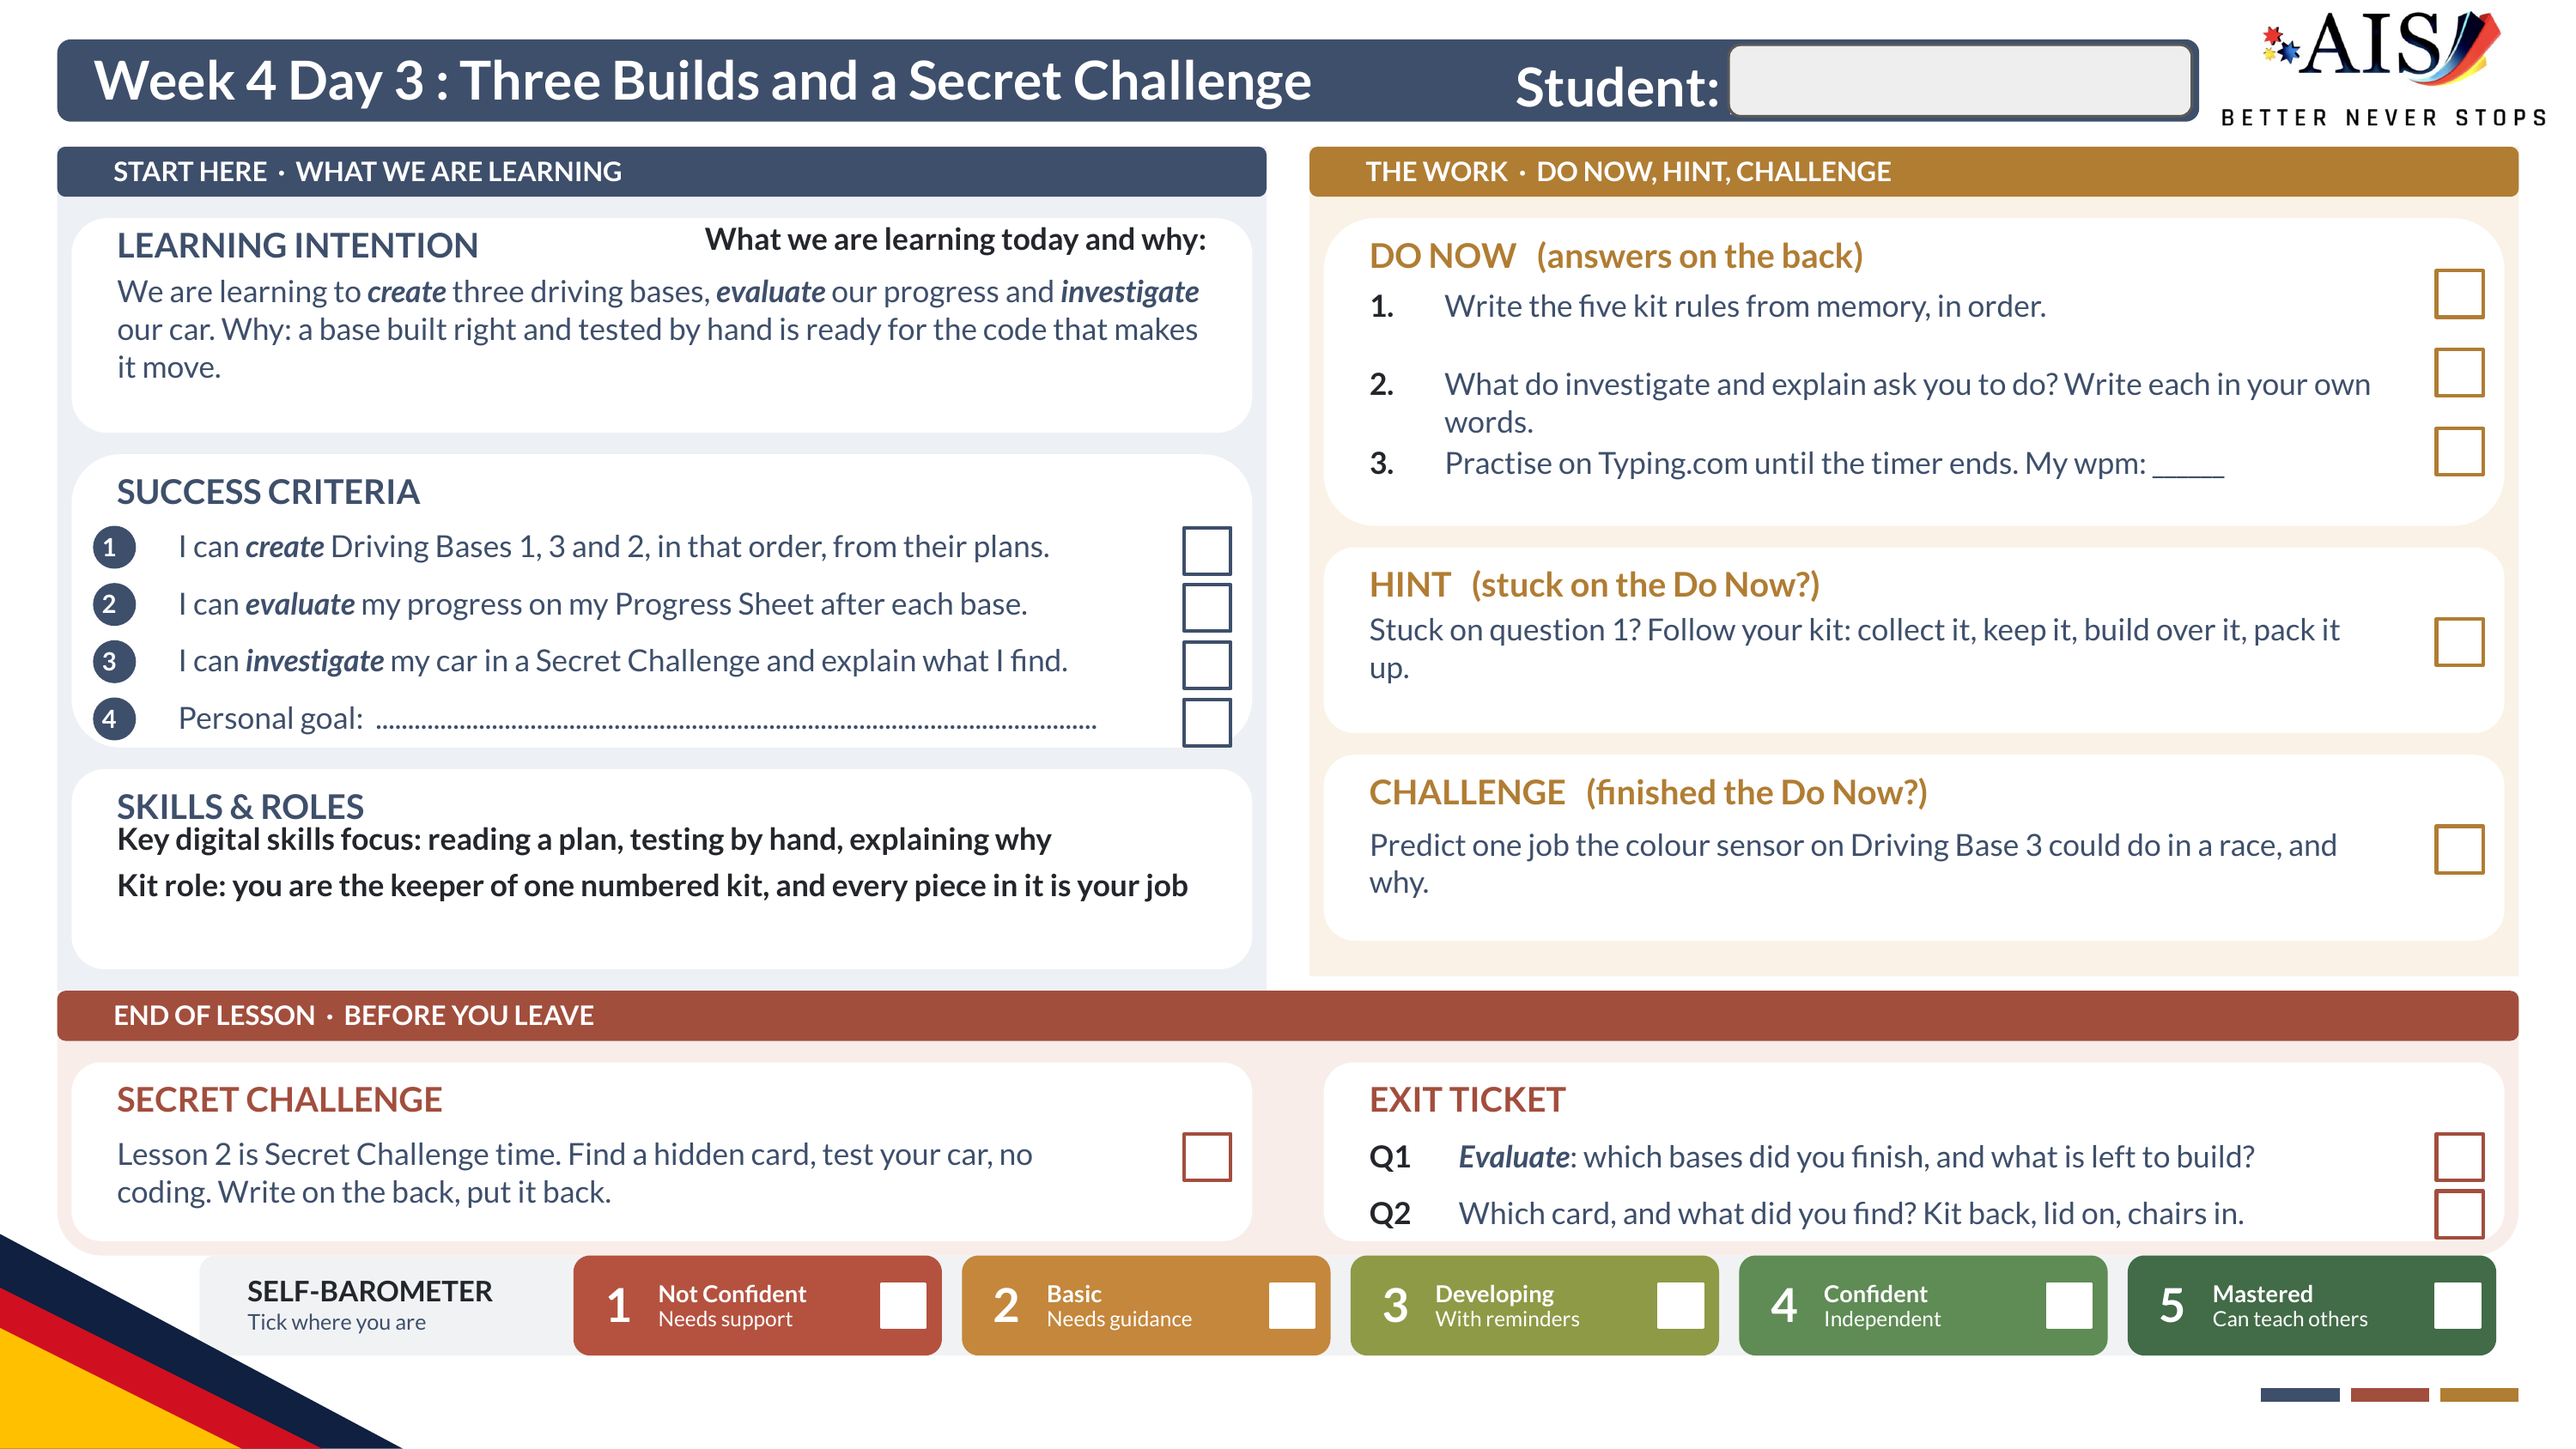
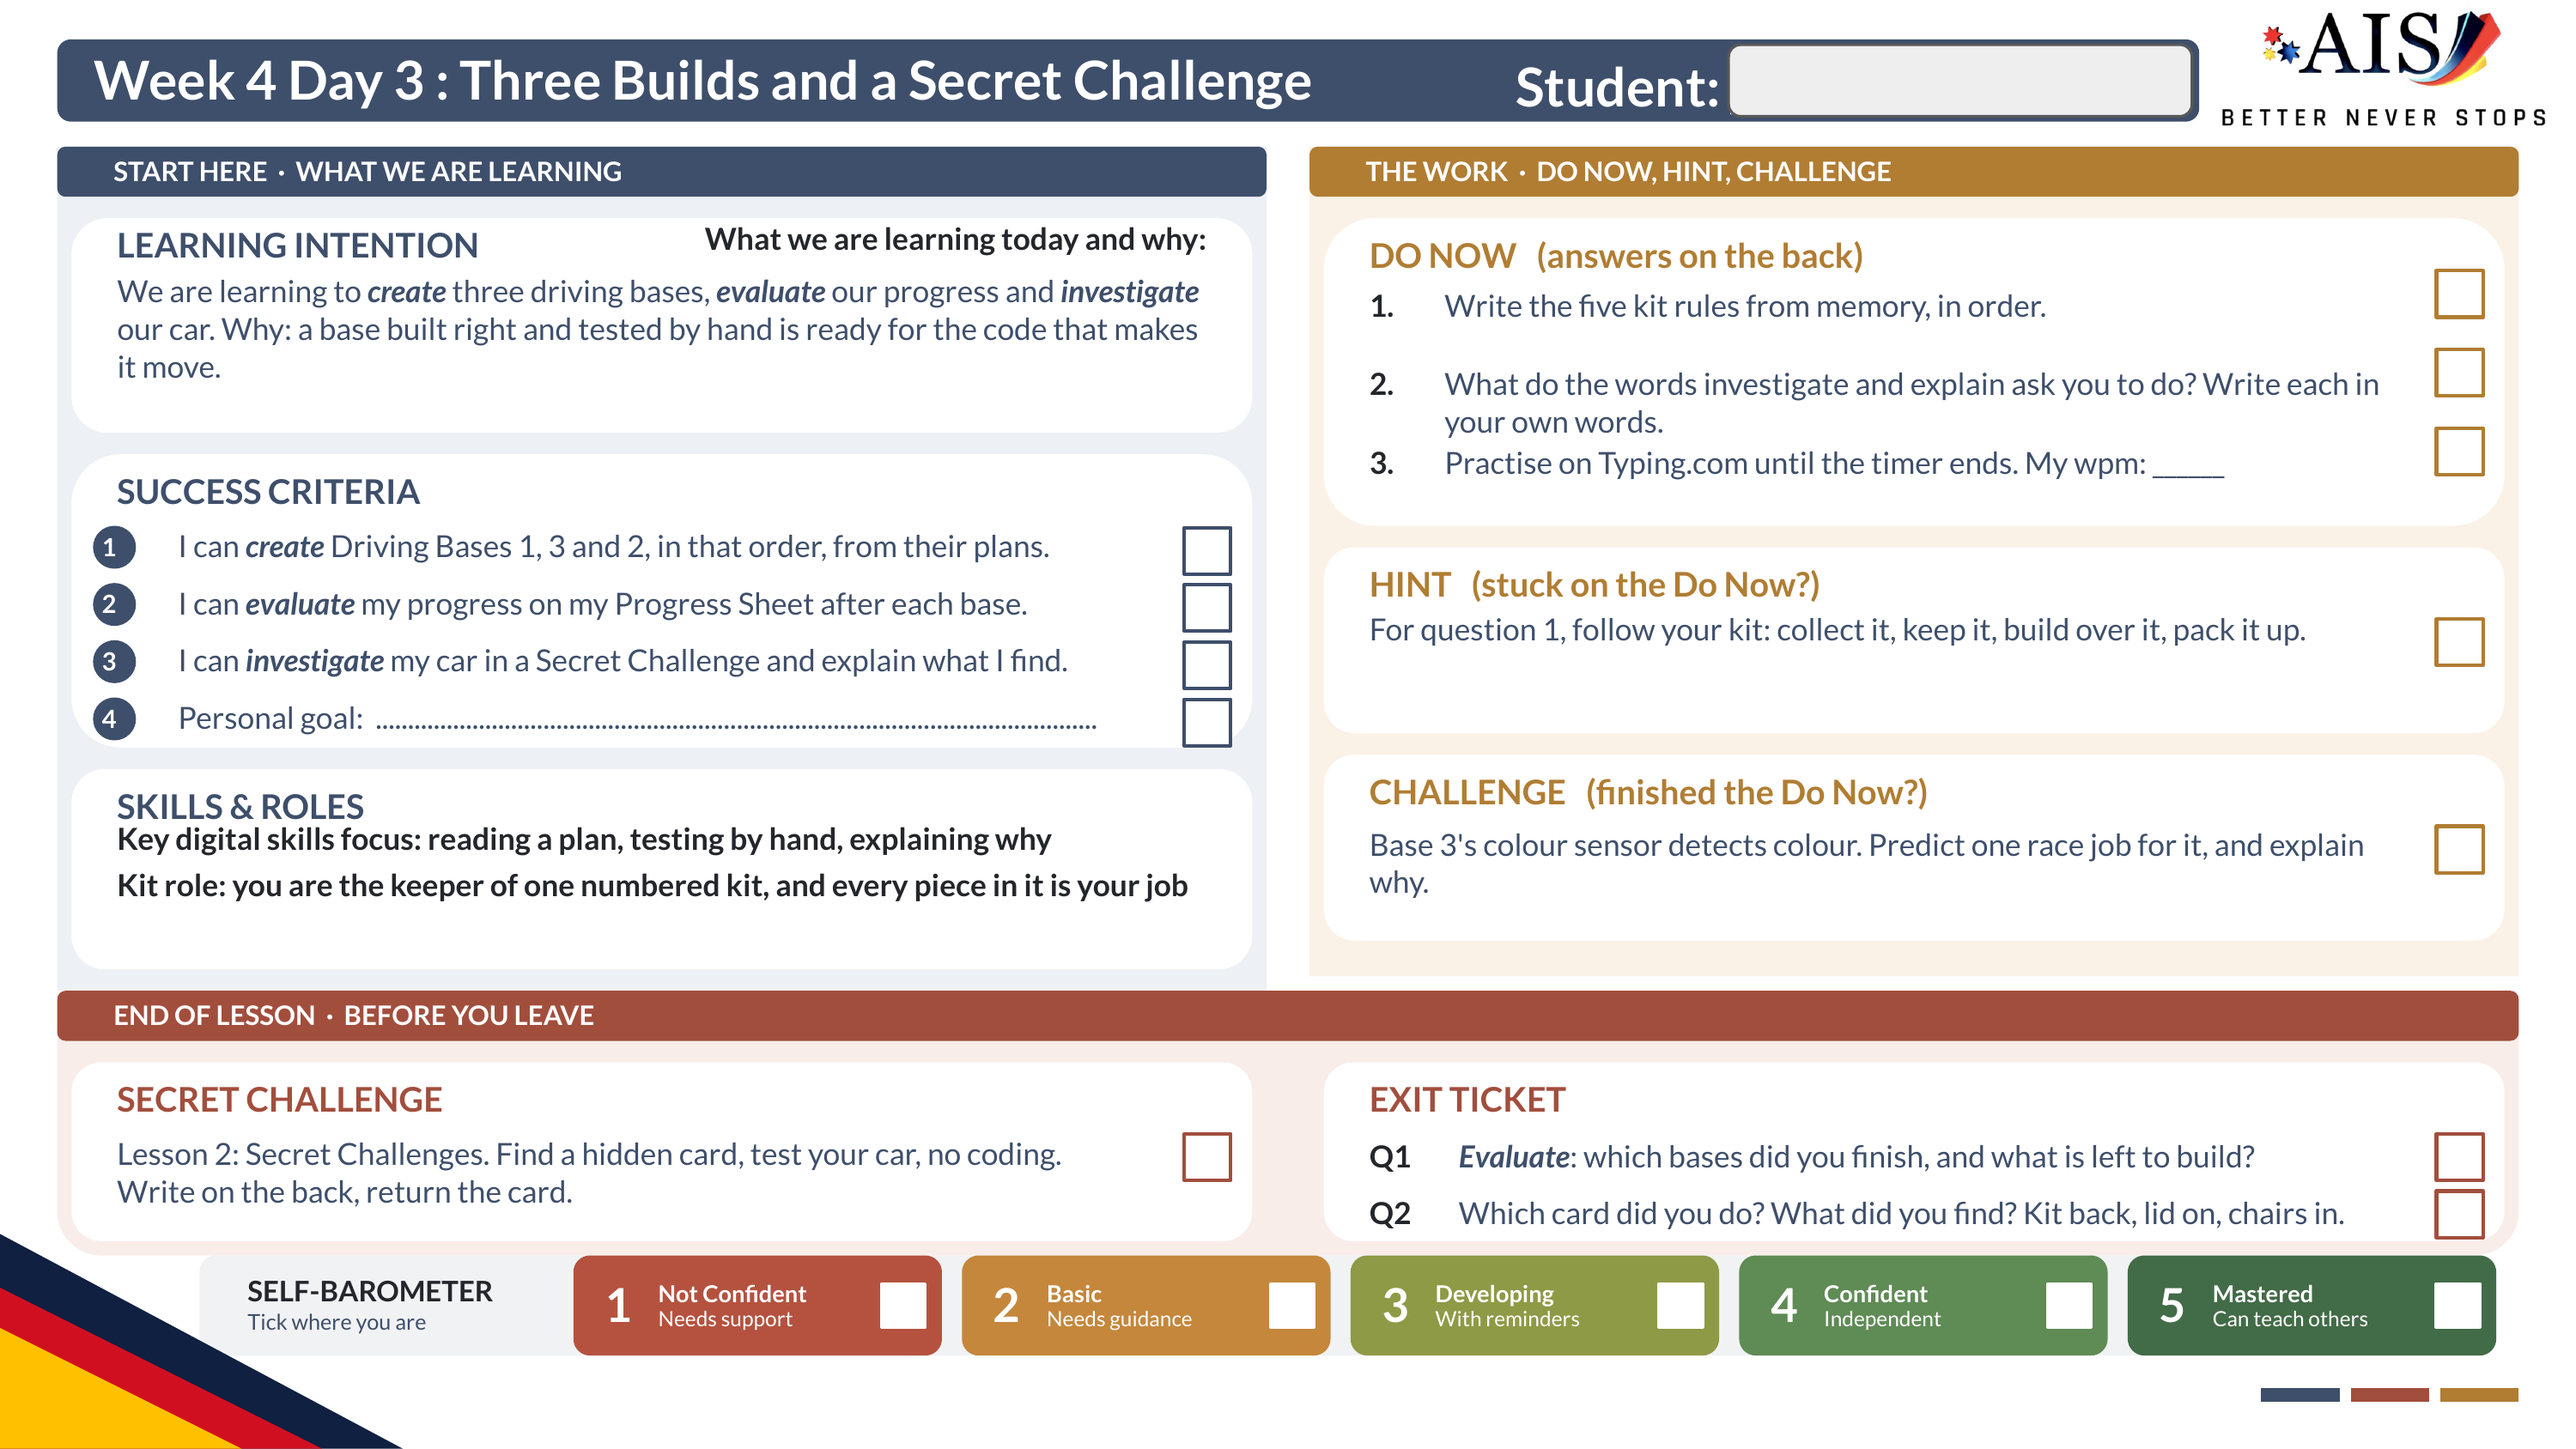
Gates round 1, G8: E17, the final Monday sheet and slide 3's Challenge: on the back; slides 3 and 18 step columns capped so the sheets keep their size

diff --git a/g7-week3-lesson2.html b/g7-week3-lesson2.html
@@ -1385,7 +1385,7 @@ ul.plain li::before { color:var(--p-i-ink); }
 <!-- ================= DO NOW ================= -->
 
 <!-- 3 · Do Now, one slide, 6 minutes: the ring walks the Do Now box, then the Hint box, then the Challenge box -->
-<section data-element="donow" class="slide g-well" data-timer="360" data-timer-group="donow" data-notes="&lt;strong&gt;Do Now, 14:02 to 14:08, 6 minutes on the printed sheet. Start the clock top left.&lt;/strong&gt; Blank first: the sheet and a pen, nothing open. They should be writing before you say anything, so &lt;strong&gt;take the register while they write&lt;/strong&gt;, then circulate. &lt;strong&gt;Question 1 is the five kit rules from memory, in order. Question 2 is what investigate and explain ask you to do, in their own words. Both answers go on the back of the sheet.&lt;/strong&gt; &lt;strong&gt;Question 3 is Typing.com, always last&lt;/strong&gt;, and the wpm goes on its line on the front. &lt;strong&gt;The ring walks on NEXT, inside the same six minutes:&lt;/strong&gt; the Do Now box, then the Hint box for anyone stuck on question 1, then the Challenge box for anyone who finishes early. The Hint is a partial cue, not the answer: the rules follow the kit, collect it, keep it, build over it, pack it up.">
+<section data-element="donow" class="slide g-well" data-timer="360" data-timer-group="donow" data-notes="&lt;strong&gt;Do Now, 14:02 to 14:08, 6 minutes on the printed sheet. Start the clock top left.&lt;/strong&gt; Blank first: the sheet and a pen, nothing open. They should be writing before you say anything, so &lt;strong&gt;take the register while they write&lt;/strong&gt;, then circulate. &lt;strong&gt;Question 1 is the five kit rules from memory, in order. Question 2 is what investigate and explain ask you to do, in their own words. Both answers go on the back of the sheet.&lt;/strong&gt; &lt;strong&gt;Question 3 is Typing.com, always last&lt;/strong&gt;, and the wpm goes on its line on the front. &lt;strong&gt;The ring walks on NEXT, inside the same six minutes:&lt;/strong&gt; the Do Now box, then the Hint box for anyone stuck on question 1, then the Challenge box for anyone who finishes early. The Challenge answer goes on the back of the sheet if the box is full. The Hint is a partial cue, not the answer: the rules follow the kit, collect it, keep it, build over it, pack it up.">
   <div class="slide-content" style="max-width:min(96vw,2400px)">
     <p class="eyebrow reveal">// do_now · on your printed sheet</p>
     <h2 class="reveal" style="margin-bottom:calc(var(--element-gap) * 0.35)">Do Now</h2>
@@ -1394,9 +1394,9 @@ ul.plain li::before { color:var(--p-i-ink); }
     </p>
     <div class="sheet-stage">
       <div class="col-img reveal sheet-fig sheet-slot sheet-big" data-rings="b5:gold" data-ring-steps="b5:gold|b6:gold|b7:gold" style=""></div>
-      <div class="stepcol">
+      <div class="stepcol" style="max-width:min(13vw, 11em)">
         <span class="chip" data-ring-step="1">Hint</span>
-        <span class="chip" data-ring-step="2">Challenge</span>
+        <span class="chip" data-ring-step="2">Challenge: on the back</span>
       </div>
     </div>
   </div>
@@ -1749,7 +1749,7 @@ ul.plain li::before { color:var(--p-i-ink); }
     <h2 class="reveal" style="margin-bottom:calc(var(--element-gap) * 0.35)">Look back at today</h2>
     <div class="sheet-stage">
       <div class="col-img reveal sheet-fig sheet-slot sheet-big" data-rings="b9:red" data-ring-steps="b9:red|b3:green|b10:gold" style=""></div>
-      <div class="stepcol">
+      <div class="stepcol" style="max-width:min(13vw, 11em)">
         <span class="chip red reveal">Exit Ticket: on the back</span>
         <span class="chip" data-ring-step="1">Tick your success criteria and your goal</span>
         <span class="chip" data-ring-step="2">Self-Barometer</span>
